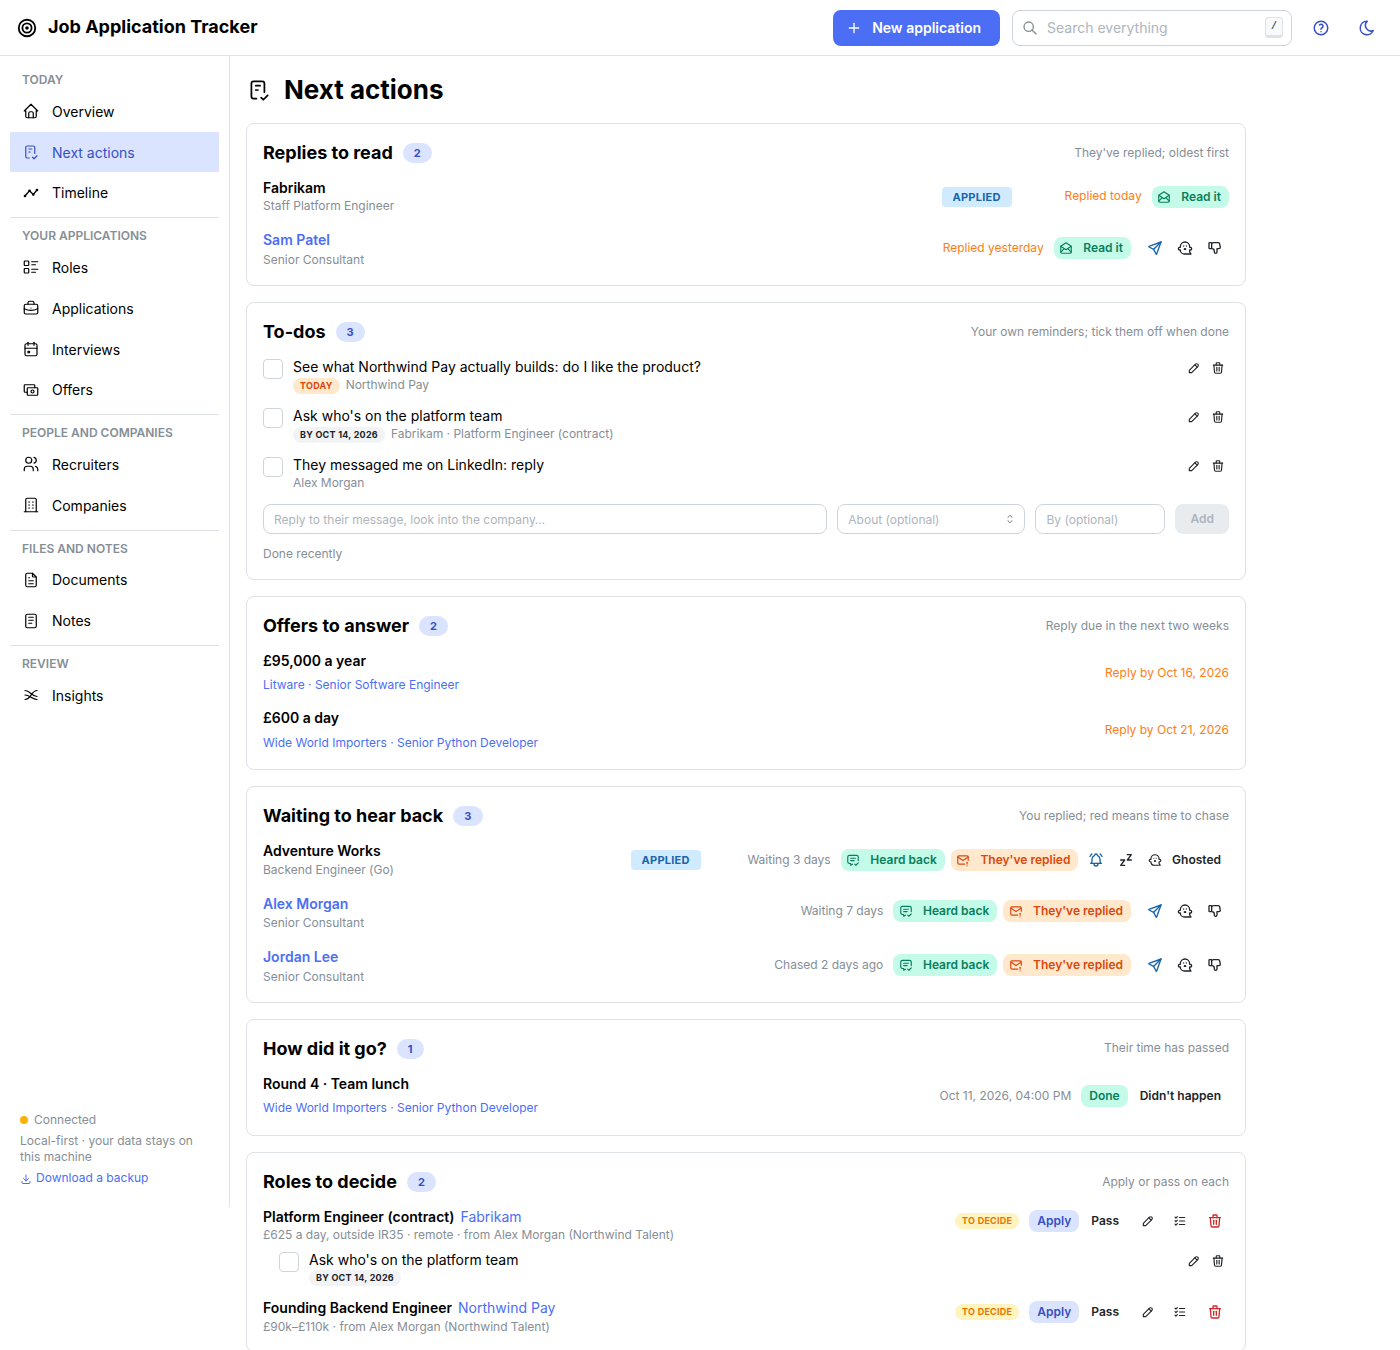
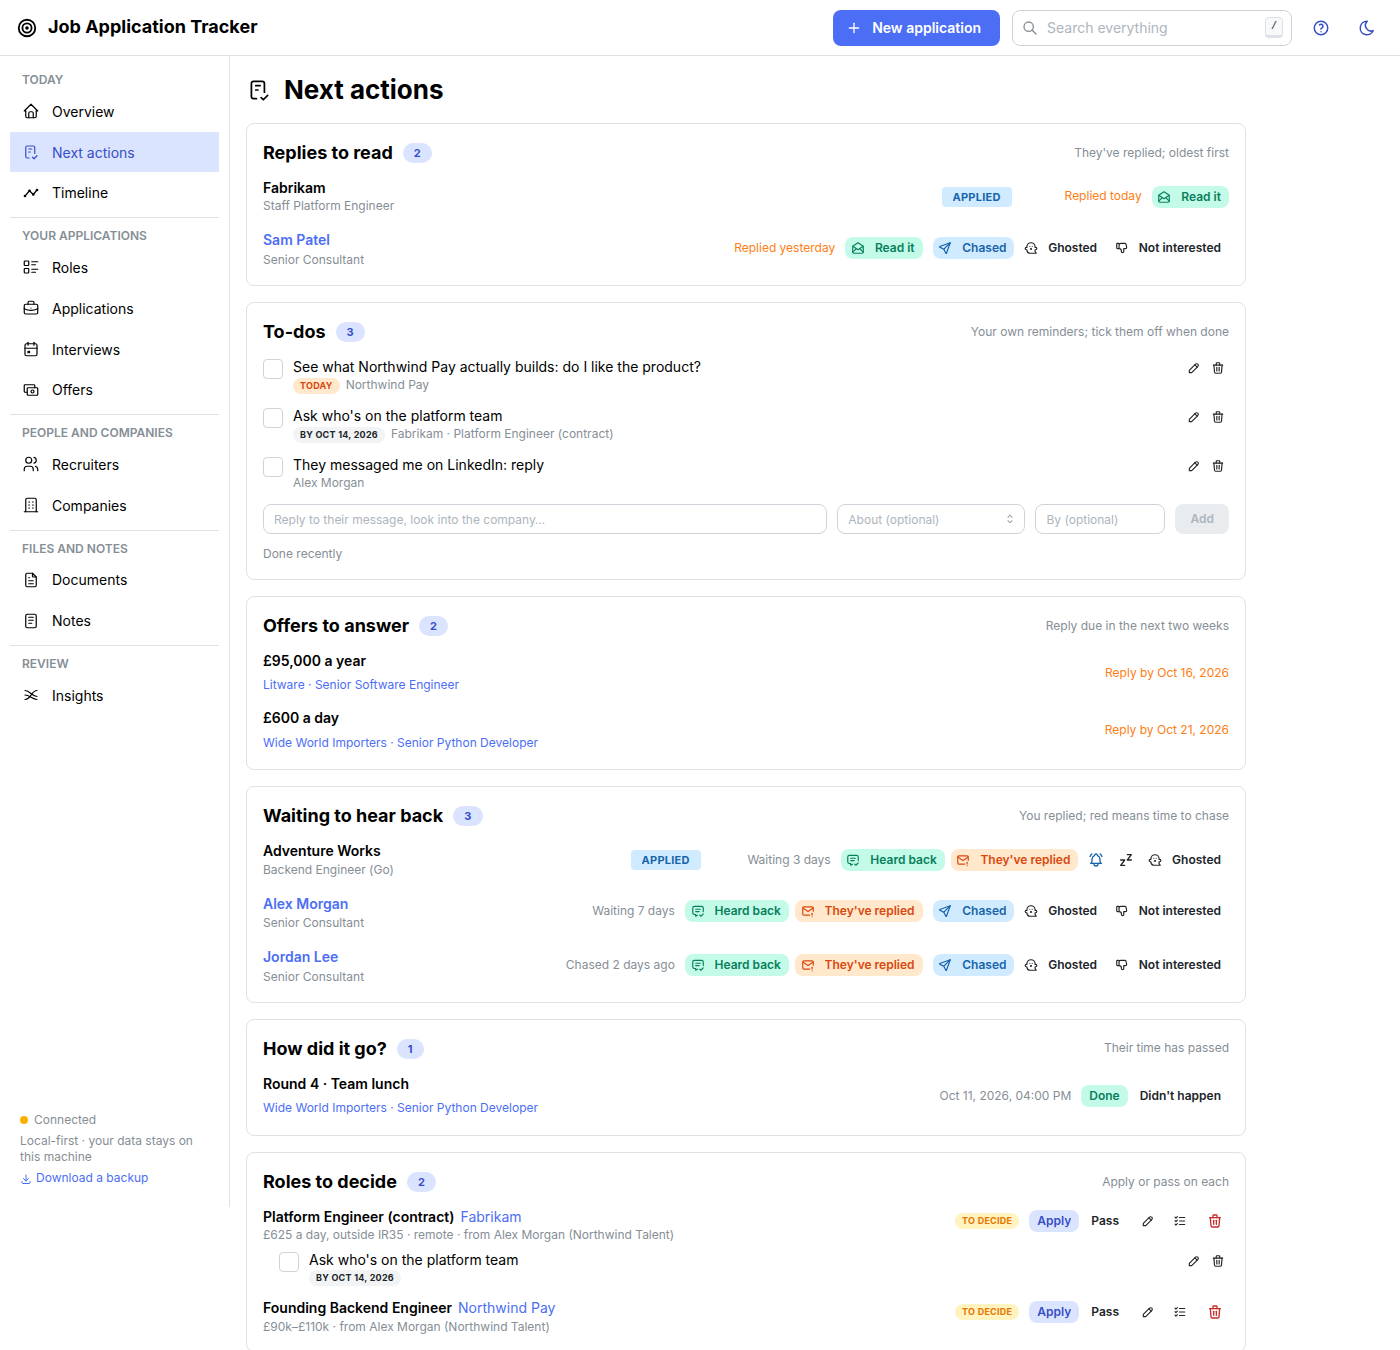
feat(frontend): Chased, Ghosted and Not interested as labelled buttons
Kai asked for text buttons like the others instead of bare icons. Screenshots retaken.

Changed region(s): [[0.43, 0.6533, 0.86, 0.7467], [0.5221, 0.1556, 0.86, 0.2178]]

diff --git a/frontend/src/components/PersonChase.tsx b/frontend/src/components/PersonChase.tsx
@@ -1,4 +1,4 @@
-import { ActionIcon, Badge, Button, Group, Text, Tooltip } from "@mantine/core";
+import { Badge, Button, Group, Text, Tooltip } from "@mantine/core";
 import { notifications } from "@mantine/notifications";
 import { IconGhost2, IconRefresh, IconSend, IconThumbDown } from "@tabler/icons-react";
 import dayjs from "dayjs";
@@ -23,11 +23,12 @@ const before = (c: Contact) => ({
 });
 
 /**
- * Chase someone, or stop expecting anything from them: **Chased** (you sent a nudge; you're
+ * Chase someone, or stop expecting anything from them, as small labelled buttons (`compact` in
+ * lists): **Chased** (you sent a nudge; you're
  * waiting again from today), **Ghosted** or **Not interested** (they leave Next actions). Each
  * says what it did, with an Undo.
  */
-export function PersonChase({ contact }: { contact: Contact }) {
+export function PersonChase({ contact, compact }: { contact: Contact; compact?: boolean }) {
   const update = useSetPersonReply();
   const act = (body: Parameters<typeof update.mutate>[0]["body"], message: string) => {
     const was = before(contact);
@@ -57,36 +58,43 @@ export function PersonChase({ contact }: { contact: Contact }) {
       },
     );
   };
+  const size = compact ? "compact-xs" : "xs";
   return (
-    <Group gap={2} wrap="nowrap">
-      <Tooltip label="Chased: waiting again from today">
-        <ActionIcon
-          variant="subtle"
+    <Group gap={4} wrap="nowrap">
+      <Tooltip label="You nudged them: waiting again from today">
+        <Button
+          size={size}
+          variant="light"
           color="blue"
+          leftSection={<IconSend size={14} />}
           disabled={update.isPending}
           onClick={() => act({ chased_on: today() }, `Chased ${contact.name}`)}
           aria-label={`Chased: ${contact.name}`}
         >
-          <IconSend size={16} />
-        </ActionIcon>
+          Chased
+        </Button>
       </Tooltip>
-      <Tooltip label="Ghosted: stop waiting">
-        <ActionIcon
+      <Tooltip label="Stop waiting: off Next actions">
+        <Button
+          size={size}
           variant="subtle"
           color="gray"
+          leftSection={<IconGhost2 size={14} />}
           disabled={update.isPending}
           onClick={() =>
             act({ closed_as: "ghosted", closed_on: today() }, `${contact.name}: ghosted, off Next actions`)
           }
           aria-label={`Ghosted: ${contact.name}`}
         >
-          <IconGhost2 size={16} />
-        </ActionIcon>
+          Ghosted
+        </Button>
       </Tooltip>
-      <Tooltip label="Not interested: stop waiting">
-        <ActionIcon
+      <Tooltip label="Stop waiting: off Next actions">
+        <Button
+          size={size}
           variant="subtle"
           color="gray"
+          leftSection={<IconThumbDown size={14} />}
           disabled={update.isPending}
           onClick={() =>
             act(
@@ -96,8 +104,8 @@ export function PersonChase({ contact }: { contact: Contact }) {
           }
           aria-label={`Not interested: ${contact.name}`}
         >
-          <IconThumbDown size={16} />
-        </ActionIcon>
+          Not interested
+        </Button>
       </Tooltip>
     </Group>
   );

diff --git a/frontend/src/pages/NextActionsPage.tsx b/frontend/src/pages/NextActionsPage.tsx
@@ -212,7 +212,7 @@ function PersonWaitingLine({ person }: { person: Contact }) {
           compact
           who={person.name}
         />
-        <PersonChase contact={person} />
+        <PersonChase contact={person} compact />
       </Group>
     </Group>
   );

diff --git a/docs/guide/using-the-app.md b/docs/guide/using-the-app.md
@@ -219,12 +219,12 @@ until you press **Read it**; the applications list and board mark it *reply to r
 another stage clears it, and undoing the move puts it back.
 
 **Chasing people, or giving up on them.** For people (a recruiter you're talking to outside
-any one application), three small buttons sit next to *Waiting* or *Replies to read* on Next
+any one application), three buttons sit next to *Waiting* or *Replies to read* on Next
 actions, and at the top of their page:
 
-- **Chased** (the paper plane): you sent a nudge. You're waiting on them again from today, and
+- **Chased**: you sent a nudge. You're waiting on them again from today, and
   Next actions says *Chased today* instead of how long you've been waiting.
-- **Ghosted** (the ghost) and **Not interested** (thumbs down): you've stopped expecting
+- **Ghosted** and **Not interested**: you've stopped expecting
   anything. They leave Next actions; their page and their Recruiters tile say *Ghosted* or
   *Not interested*, with the date, and **Reopen** clears it. Marking them as waiting or
   replied again reopens it too.

diff --git a/CHANGELOG.md b/CHANGELOG.md
@@ -71,7 +71,8 @@ is built and merged, but not yet tested in real use. Numbers in brackets are pul
   as a chip and their contact details, a filter (at agencies, at companies, independent) and
   every agency as a chip (#58).
 - **Chased, Ghosted and Not interested for people**: chase a recruiter (waiting again from
-  today), or stop expecting anything so they leave Next actions; with Undo and Reopen (#59).
+  today), or stop expecting anything so they leave Next actions; with Undo and Reopen (#59), as
+  labelled buttons like the rest (#60).
 
 ### Under the hood
 - Python 3.12, FastAPI, SQLAlchemy, Alembic and SQLite; React 19, TypeScript, Mantine and
